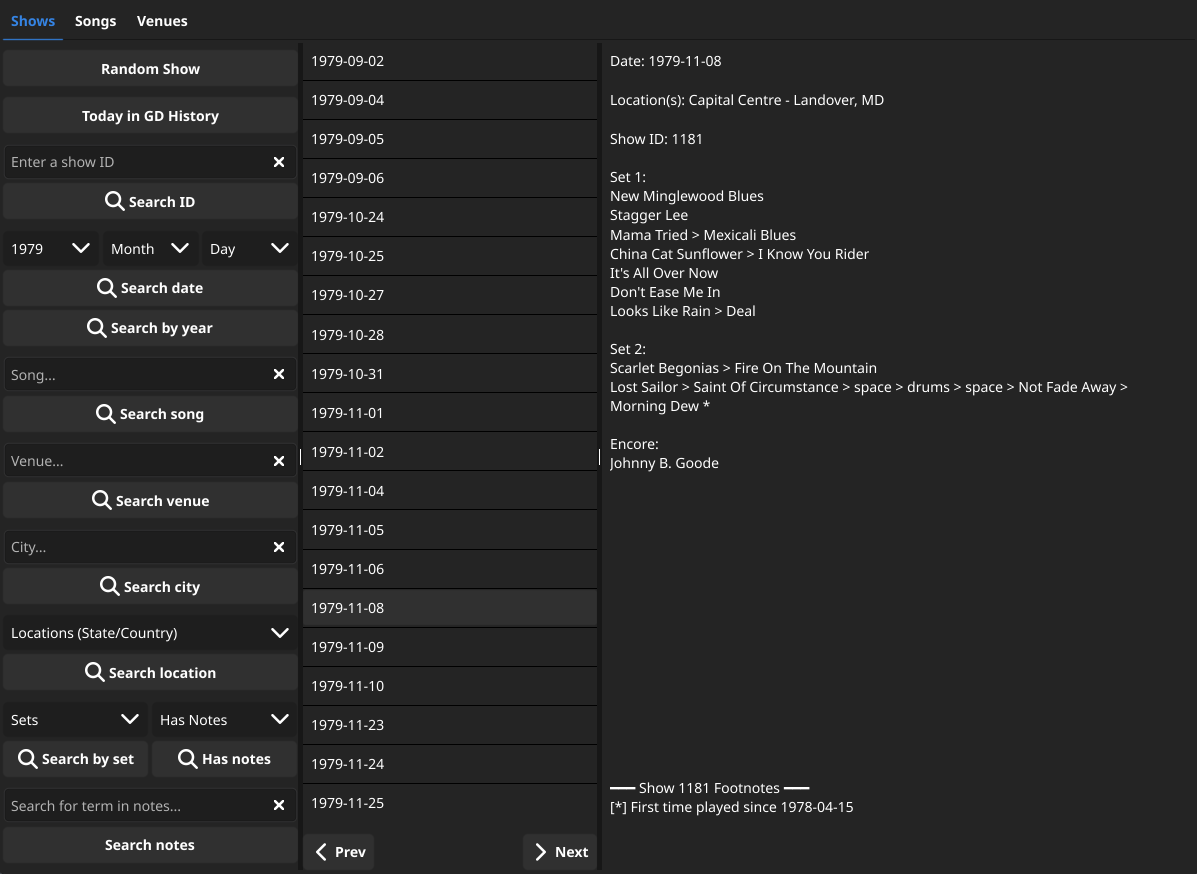
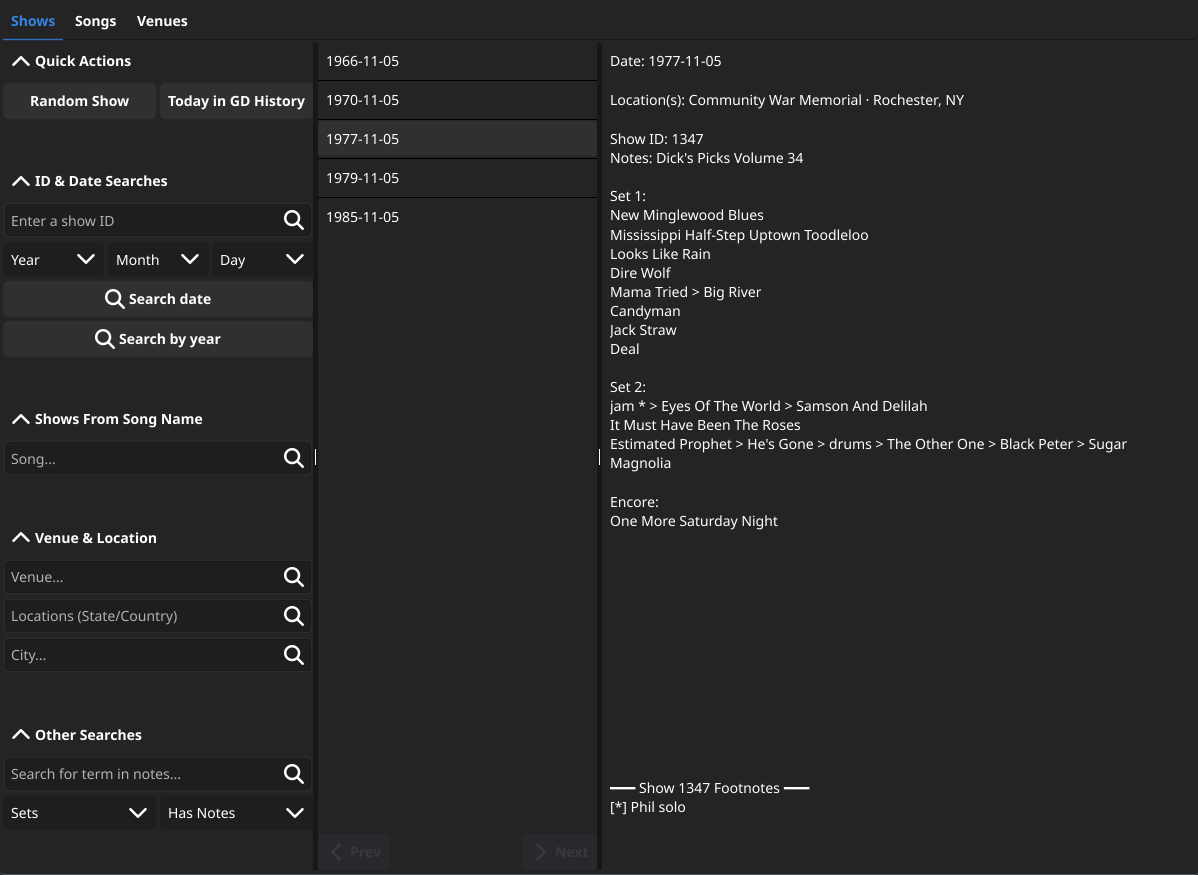
Reconfigure search panel layout
Group together search functions into accordion widgets
Remove unnecessary search buttons
Change location search to CompletionEntry
Update example image

diff --git a/cmd/gui/ui.go b/cmd/gui/ui.go
@@ -102,14 +102,11 @@ func (s *showsTab) buildShowsSearchPanel() fyne.CanvasObject {
 
 	// By ID
 	s.idEntry = widget.NewEntry()
-	idClearBtn := widget.NewButtonWithIcon("", theme.CancelIcon(), func() {
-		s.idEntry.SetText("")
-	})
-	idClearBtn.Importance = widget.LowImportance
-	s.idEntry.ActionItem = idClearBtn
+	idSearchBtn := widget.NewButtonWithIcon("", theme.SearchIcon(), func() { s.searchByID(s.idEntry.Text) })
+	idSearchBtn.Importance = widget.LowImportance
+	s.idEntry.ActionItem = idSearchBtn
 	s.idEntry.SetPlaceHolder("Enter a show ID")
 	s.idEntry.OnSubmitted = s.searchByID
-	idBtn := widget.NewButtonWithIcon("Search ID", theme.SearchIcon(), func() { s.searchByID(s.idEntry.Text) })
 
 	// By date
 	s.yearSelect = widget.NewSelect(numberStrings(1965, 1995), nil)
@@ -126,11 +123,9 @@ func (s *showsTab) buildShowsSearchPanel() fyne.CanvasObject {
 
 	// By song
 	s.songSearch = xwidget.NewCompletionEntry(s.app.allSongs)
-	songClearBtn := widget.NewButtonWithIcon("", theme.CancelIcon(), func() {
-		s.songSearch.SetText("")
-	})
-	songClearBtn.Importance = widget.LowImportance
-	s.songSearch.ActionItem = songClearBtn
+	songSearchBtn := widget.NewButtonWithIcon("", theme.SearchIcon(), func() { s.searchBySong(s.songSearch.Text) })
+	songSearchBtn.Importance = widget.LowImportance
+	s.songSearch.ActionItem = songSearchBtn
 	s.songSearch.SetPlaceHolder("Song...")
 	s.songSearch.OnSubmitted = s.searchBySong
 	s.songSearch.OnChanged = func(input string) {
@@ -142,13 +137,12 @@ func (s *showsTab) buildShowsSearchPanel() fyne.CanvasObject {
 		}
 		s.songSearch.ShowCompletion()
 	}
-	songBtn := widget.NewButtonWithIcon("Search song", theme.SearchIcon(), func() { s.searchBySong(s.songSearch.Text) })
 
 	// By venue
 	s.venueSearch = xwidget.NewCompletionEntry(s.app.allVenues)
-	venueClearBtn := widget.NewButtonWithIcon("", theme.CancelIcon(), func() { s.venueSearch.SetText("") })
-	venueClearBtn.Importance = widget.LowImportance
-	s.venueSearch.ActionItem = venueClearBtn
+	venueSearchBtn := widget.NewButtonWithIcon("", theme.SearchIcon(), func() { s.searchByVenue(s.venueSearch.Text) })
+	venueSearchBtn.Importance = widget.LowImportance
+	s.venueSearch.ActionItem = venueSearchBtn
 	s.venueSearch.PlaceHolder = "Venue..."
 	s.venueSearch.OnSubmitted = s.searchByVenue
 	s.venueSearch.OnChanged = func(input string) {
@@ -160,13 +154,12 @@ func (s *showsTab) buildShowsSearchPanel() fyne.CanvasObject {
 		}
 		s.venueSearch.ShowCompletion()
 	}
-	venueBtn := widget.NewButtonWithIcon("Search venue", theme.SearchIcon(), func() { s.searchByVenue(s.venueSearch.Text) })
 
 	// By city
 	s.citySearch = xwidget.NewCompletionEntry(s.app.allCities)
-	cityClearBtn := widget.NewButtonWithIcon("", theme.CancelIcon(), func() { s.citySearch.SetText("") })
-	cityClearBtn.Importance = widget.LowImportance
-	s.citySearch.ActionItem = cityClearBtn
+	citySearchBtn := widget.NewButtonWithIcon("", theme.SearchIcon(), func() { s.searchByCity(s.citySearch.Text) })
+	citySearchBtn.Importance = widget.LowImportance
+	s.citySearch.ActionItem = citySearchBtn
 	s.citySearch.SetPlaceHolder("City...")
 	s.citySearch.OnSubmitted = s.searchByCity
 	s.citySearch.OnChanged = func(input string) {
@@ -178,56 +171,73 @@ func (s *showsTab) buildShowsSearchPanel() fyne.CanvasObject {
 		}
 		s.citySearch.ShowCompletion()
 	}
-	cityBtn := widget.NewButtonWithIcon("Search city", theme.SearchIcon(), func() { s.searchByCity(s.citySearch.Text) })
 
 	// By location
-	s.locationSearch = widget.NewSelect(s.app.allLocations, nil)
+	s.locationSearch = xwidget.NewCompletionEntry(s.app.allLocations)
+	locationSearchBtn := widget.NewButtonWithIcon("", theme.SearchIcon(), func() { s.searchByLocation(s.locationSearch.Text) })
+	locationSearchBtn.Importance = widget.LowImportance
+	s.locationSearch.ActionItem = locationSearchBtn
 	s.locationSearch.PlaceHolder = "Locations (State/Country)"
-	locBtn := widget.NewButtonWithIcon("Search location", theme.SearchIcon(), func() { s.searchByLocation(s.locationSearch.Selected) })
+	s.locationSearch.OnSubmitted = s.searchByLocation
+	s.locationSearch.OnChanged = func(input string) {
+		opts := filterOptions(s.app.allLocations, input)
+		s.locationSearch.SetOptions(opts)
+		if len(opts) == 0 {
+			s.locationSearch.HideCompletion()
+			return
+		}
+		s.locationSearch.ShowCompletion()
+	}
 
 	// By set name
 	s.setNameSelect = widget.NewSelect(setLabels(), nil)
 	s.setNameSelect.PlaceHolder = "Sets"
-	setNameBtn := widget.NewButtonWithIcon("Search by set", theme.SearchIcon(), s.searchBySetName)
+	s.setNameSelect.OnChanged = func(set string) { s.searchBySetName() }
 
 	// By notes
 	s.notesSelect = widget.NewSelect([]string{"True", "False"}, nil)
 	s.notesSelect.PlaceHolder = "Has Notes"
-	notesBtn := widget.NewButtonWithIcon("Has notes", theme.SearchIcon(), s.searchByNotes)
+	s.notesSelect.OnChanged = func(hasNotes string) { s.searchByNotes() }
 
 	setAndNotes := container.NewGridWithColumns(2, s.setNameSelect, s.notesSelect)
-	setAndNotesBtns := container.NewGridWithColumns(2, setNameBtn, notesBtn)
 
 	s.notesSearch = widget.NewEntry()
-	notesClearBtn := widget.NewButtonWithIcon("", theme.CancelIcon(), func() { s.notesSearch.SetText("") })
+	notesClearBtn := widget.NewButtonWithIcon("", theme.SearchIcon(), func() { s.searchShowNotes(s.notesSearch.Text) })
 	notesClearBtn.Importance = widget.LowImportance
 	s.notesSearch.ActionItem = notesClearBtn
 	s.notesSearch.PlaceHolder = "Search for term in notes..."
 	s.notesSearch.OnSubmitted = s.searchShowNotes
-	notesSearchBtn := widget.NewButton("Search notes", func() { s.searchShowNotes(s.notesSearch.Text) })
+
+	quickActions := container.NewGridWithColumns(2, randShowBtn, todayBtn)
+	quickActionsAccordion := widget.NewAccordion(widget.NewAccordionItem("Quick Actions", quickActions))
+	quickActionsAccordion.Open(0)
+
+	idDate := container.NewVBox(s.idEntry, datePickers, dateBtn, yearBtn)
+	idDateAccordion := widget.NewAccordion(widget.NewAccordionItem("ID & Date Searches", idDate))
+	idDateAccordion.Open(0)
+
+	songSearch := container.NewVBox(s.songSearch)
+	songAccordion := widget.NewAccordion(widget.NewAccordionItem("Shows From Song Name", songSearch))
+	songAccordion.Open(0)
+
+	venueLocation := container.NewVBox(s.venueSearch, s.locationSearch, s.citySearch)
+	venueLocationAccordion := widget.NewAccordion(widget.NewAccordionItem("Venue & Location", venueLocation))
+	venueLocationAccordion.Open(0)
+
+	otherSearches := container.NewVBox(s.notesSearch, setAndNotes)
+	otherSearchesAccordion := widget.NewAccordion(widget.NewAccordionItem("Other Searches", otherSearches))
+	otherSearchesAccordion.Open(0)
 
 	return container.NewVBox(
+		quickActionsAccordion,
 		layout.NewSpacer(),
-		randShowBtn,
+		idDateAccordion,
 		layout.NewSpacer(),
-		todayBtn,
+		songAccordion,
 		layout.NewSpacer(),
-		s.idEntry, idBtn,
+		venueLocationAccordion,
 		layout.NewSpacer(),
-		datePickers, dateBtn,
-		yearBtn,
-		layout.NewSpacer(),
-		s.songSearch, songBtn,
-		layout.NewSpacer(),
-		s.venueSearch, venueBtn,
-		layout.NewSpacer(),
-		s.citySearch, cityBtn,
-		layout.NewSpacer(),
-		s.locationSearch, locBtn,
-		layout.NewSpacer(),
-		setAndNotes, setAndNotesBtns,
-		layout.NewSpacer(),
-		s.notesSearch, notesSearchBtn,
+		otherSearchesAccordion,
 		layout.NewSpacer(),
 	)
 }

diff --git a/cmd/gui/format.go b/cmd/gui/format.go
@@ -31,7 +31,7 @@ func formatShows(data []internal.ShowResponse) showText {
 	var sets, notes, location strings.Builder
 	for i, show := range data {
 		fmt.Fprintf(&sets, "Show ID: %v\n", show.ShowID)
-		fmt.Fprintf(&location, "Location(s): %v - %v, %v\n", show.Venue, show.City, show.Location)
+		fmt.Fprintf(&location, "Location(s): %v · %v, %v\n", show.Venue, show.City, show.Location)
 		if show.Notes != "" {
 			fmt.Fprintf(&sets, "Notes: %v\n", show.Notes)
 		}

diff --git a/cmd/gui/app.go b/cmd/gui/app.go
@@ -33,7 +33,7 @@ type showsTab struct {
 	songSearch     *xwidget.CompletionEntry
 	venueSearch    *xwidget.CompletionEntry
 	citySearch     *xwidget.CompletionEntry
-	locationSearch *widget.Select
+	locationSearch *xwidget.CompletionEntry
 	setNameSelect  *widget.Select
 	notesSelect    *widget.Select
 	notesSearch    *widget.Entry

diff --git a/cmd/gui/api.go b/cmd/gui/api.go
@@ -23,7 +23,7 @@ type (
 var (
 	httpClient = &http.Client{Timeout: 10 * time.Second}
 
-	errNotFound = errors.New("not found")
+	errNotFound = errors.New("no results found")
 
 	validSetNames = []string{"set_1", "set_2", "set_3", "encore", "acoustic", "electric"}
 )
